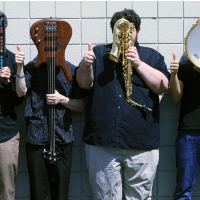
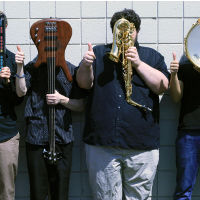
Compressing images

diff --git a/index.html b/index.html
@@ -217,7 +217,7 @@
                 </div>
 
                 <div class="bandInfo">
-                    <img src="img/bands/campus_dj.png" />
+                    <img src="img/bands/campus_dj.jpg" />
                     
                     <div>
                         <p>
